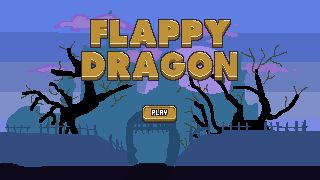
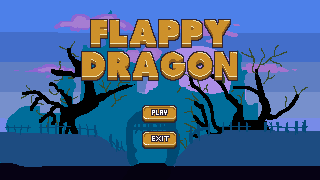
button

diff --git a/Game.cpp b/Game.cpp
@@ -84,9 +84,9 @@ bool Game::Init()
 	SDL_QueryTexture(endmenu, NULL, NULL, &w, NULL);
 	EndMenu.Init(0, 0, WINDOW_WIDTH, WINDOW_HEIGHT, 4);
 	SDL_QueryTexture(img_background, NULL, NULL, &w, NULL);
-	Scene.Init(0, 0, WINDOW_WIDTH*2, WINDOW_HEIGHT, 4);
-	SDL_QueryTexture(clouds, NULL, NULL, &w, NULL);
-	Clouds.Init(0, 0, WINDOW_WIDTH, WINDOW_HEIGHT, 4);
+	Scene.Init(0, 0, WINDOW_WIDTH, WINDOW_HEIGHT, 4);
+	//SDL_QueryTexture(clouds, NULL, NULL, &w, NULL);
+	//Clouds.Init(0, 0, WINDOW_WIDTH, WINDOW_HEIGHT, 4);
 	SDL_QueryTexture(towd, NULL, NULL, &w, NULL);
 	TowD1.Init(1920, 700, 59 *3, 180*3, 4);
 	TowD2.Init(2600, 700, 59 * 3, 180 * 3, 4);
@@ -110,6 +110,13 @@ bool Game::Init()
 	Eggc2.Init(40, 155, 40, 40, 4);
 	SDL_QueryTexture(egg3c, NULL, NULL, &w, NULL);
 	Eggc3.Init(40, 205, 40, 40, 4);
+
+	SDL_QueryTexture(egg1cend, NULL, NULL, &w, NULL);
+	Eggc1end.Init(880, 680, 40, 40, 4);
+	SDL_QueryTexture(egg2cend, NULL, NULL, &w, NULL);
+	Eggc2end.Init(880, 730, 40, 40, 4);
+	SDL_QueryTexture(egg3cend, NULL, NULL, &w, NULL);
+	Eggc3end.Init(880, 780, 40, 40, 4);
 
 	god_mode = false;
 	return true;
@@ -138,7 +145,7 @@ bool Game::LoadImages()
 		SDL_Log("CreateTextureFromSurface failed: %s\n", SDL_GetError());
 		return false;
 	}
-	img_background = SDL_CreateTextureFromSurface(Renderer, IMG_Load("Images/fondo.png"));
+	img_background = SDL_CreateTextureFromSurface(Renderer, IMG_Load("Images/fondo1.png"));
 	if (img_background == NULL) {
 		SDL_Log("CreateTextureFromSurface failed: %s\n", SDL_GetError());
 		return false;
@@ -193,6 +200,21 @@ bool Game::LoadImages()
 		SDL_Log("CreateTextureFromSurface failed: %s\n", SDL_GetError());
 		return false;
 	}
+	egg1cend = SDL_CreateTextureFromSurface(Renderer, IMG_Load("Images/coin.png"));
+	if (egg1cend == NULL) {
+		SDL_Log("CreateTextureFromSurface failed: %s\n", SDL_GetError());
+		return false;
+	}
+	egg2cend = SDL_CreateTextureFromSurface(Renderer, IMG_Load("Images/coin.png"));
+	if (egg2cend == NULL) {
+		SDL_Log("CreateTextureFromSurface failed: %s\n", SDL_GetError());
+		return false;
+	}
+	egg3cend = SDL_CreateTextureFromSurface(Renderer, IMG_Load("Images/coin.png"));
+	if (egg3cend == NULL) {
+		SDL_Log("CreateTextureFromSurface failed: %s\n", SDL_GetError());
+		return false;
+	}
 	pause = SDL_CreateTextureFromSurface(Renderer, IMG_Load("Images/coin.png"));
 	if (pause == NULL) {
 		SDL_Log("CreateTextureFromSurface failed: %s\n", SDL_GetError());
@@ -217,6 +239,9 @@ void Game::Release()
 	SDL_DestroyTexture(egg1c);
 	SDL_DestroyTexture(egg2c);
 	SDL_DestroyTexture(egg3c);
+	SDL_DestroyTexture(egg1cend);
+	SDL_DestroyTexture(egg2cend);
+	SDL_DestroyTexture(egg3cend);
 	SDL_DestroyTexture(pause);
 	SDL_DestroyTexture(clouds);
 
@@ -364,6 +389,10 @@ void Game::OpenMenu()
 			audio.PlayFx(buttonFX);
 			gameReady = true;
 		}
+		else if (x >= 144 * 6 && x <= 174 * 6 && y >= 133 * 6 && y <= 146 * 6) {
+			audio.PlayFx(buttonFX);
+			close = true;
+		}
 	}
 }
 
@@ -379,25 +408,25 @@ bool Game::CheckCollision(SDL_Rect* A, SDL_Rect* B)
 }
 
 void Game::timer() {
-	SDL_Rect rc;
-	SDL_Rect cl;
-	//Set the color used for drawing operations
-	SDL_SetRenderDrawColor(Renderer, 0, 0, 0, 255);
-	//Clear rendering target
-	SDL_RenderClear(Renderer);
-	//Draw menu
+	//SDL_Rect rc;
+	//SDL_Rect cl;
+	////Set the color used for drawing operations
+	//SDL_SetRenderDrawColor(Renderer, 0, 0, 0, 255);
+	////Clear rendering target
+	//SDL_RenderClear(Renderer);
+	////Draw menu
 
-	Scene.GetRect(&rc.x, &rc.y, &rc.w, &rc.h);
-	SDL_RenderCopy(Renderer, img_background, NULL, &rc);
-	Clouds.GetRect(&cl.x, &cl.y, &cl.w, &cl.h);
-	SDL_RenderCopy(Renderer, img_background, NULL, &rc);
-	//Pause.GetRect(&rc.x, &rc.y, &rc.w, &rc.h);
-	//SDL_RenderCopy(Renderer, pause, NULL, &rc);
-	/*p.Render(Renderer);*/
+	//Scene.GetRect(&rc.x, &rc.y, &rc.w, &rc.h);
+	//SDL_RenderCopy(Renderer, img_background, NULL, &rc);
+	///*Clouds.GetRect(&cl.x, &cl.y, &cl.w, &cl.h);
+	//SDL_RenderCopy(Renderer, img_background, NULL, &rc);*/
+	////Pause.GetRect(&rc.x, &rc.y, &rc.w, &rc.h);
+	////SDL_RenderCopy(Renderer, pause, NULL, &rc);
+	///*p.Render(Renderer);*/
 
-	//Update screen
-	SDL_RenderPresent(Renderer);
-	SDL_Delay(1000);    // 1000/10 = 100 fps ma
+	////Update screen
+	//SDL_RenderPresent(Renderer);
+	//SDL_Delay(1000);    // 1000/10 = 100 fps ma
 }
 
 
@@ -665,6 +694,20 @@ void Game::OpenEnd()
 	//Update screen
 	std::string s = "Score: " + std::to_string(points);
 	Text(s.c_str(), 850, 600, 205, 146, 44);
+	Text(std::to_string(egg1count).c_str(), 950, 675, 255, 255, 255);
+	Text(std::to_string(egg2count).c_str(), 950, 725, 255, 255, 255);
+	Text(std::to_string(egg3count).c_str(), 950, 775, 255, 255, 255);
+
+	SDL_Rect egc1end;
+	SDL_Rect egc2end;
+	SDL_Rect egc3end;
+	Eggc1end.GetRect(&egc1end.x, &egc1end.y, &egc1end.w, &egc1end.h);
+	Eggc2end.GetRect(&egc2end.x, &egc2end.y, &egc2end.w, &egc2end.h);
+	Eggc3end.GetRect(&egc3end.x, &egc3end.y, &egc3end.w, &egc3end.h);
+	SDL_RenderCopy(Renderer, egg1cend, NULL, &egc1end);
+	SDL_RenderCopy(Renderer, egg2cend, NULL, &egc2end);
+	SDL_RenderCopy(Renderer, egg3cend, NULL, &egc3end);
+
 	SDL_RenderPresent(Renderer);
 	SDL_Delay(10);	// 1000/10 = 100 fps max
 
@@ -674,7 +717,7 @@ void Game::OpenEnd()
 	{
 		int x, y;
 		SDL_GetMouseState(&x, &y);
-		if (x >= 144*6 && x <= 174*6 && y >= 116*6 && y <= 144*6) {
+		if (x >= 144*6 && x <= 174*6 && y >= 147*6 && y <= 160*6) {
 			audio.PlayFx(buttonFX);
 			end = true;
 		}

diff --git a/Game.h b/Game.h
@@ -85,7 +85,7 @@ public:
 private:
 	SDL_Window *Window;
 	SDL_Renderer *Renderer;
-	SDL_Texture *img_background, *img_shot, *background, *in, *menu, *endmenu, *tex, *towd, *towu, *egg1, *egg2, *egg3, *pause, * egg1c, * egg2c, * egg3c, *clouds;
+	SDL_Texture *img_background, *img_shot, *background, *in, *menu, *endmenu, *tex, *towd, *towu, *egg1, *egg2, *egg3, *pause, * egg1c, * egg2c, * egg3c, *clouds, * egg1cend, * egg2cend, * egg3cend;
 	
 	int idx_shot;
 
@@ -97,7 +97,7 @@ private:
 	Player p, shot;
 	bool GameState;
 
-	Entity Player, Shots[MAX_SHOTS], Scene, Menu, EndMenu, TowD1, TowD2, TowD3, TowU1, TowU2, TowU3, Intro, Egg1, Egg2, Egg3, Pause, Eggc1, Eggc2, Eggc3, Clouds;
+	Entity Player, Shots[MAX_SHOTS], Scene, Menu, EndMenu, TowD1, TowD2, TowD3, TowU1, TowU2, TowU3, Intro, Egg1, Egg2, Egg3, Pause, Eggc1, Eggc2, Eggc3, Clouds, Eggc1end, Eggc2end, Eggc3end;
 
 	Audio audio;
 

diff --git a/main.cpp b/main.cpp
@@ -19,6 +19,11 @@ int main(int argc, char* args[])
 			game.gameReady = false;
 			break;
 		}
+		if (game.close)
+		{
+			game.Release();
+			return 0;
+		}
 
 	}
 	if (!game.gameReady)
